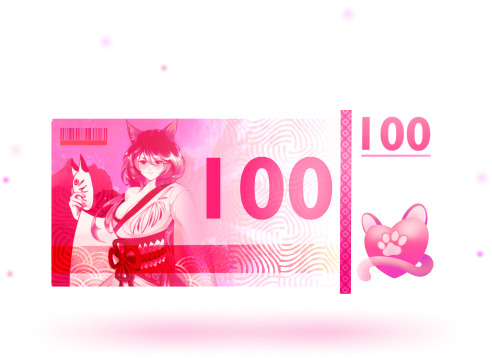
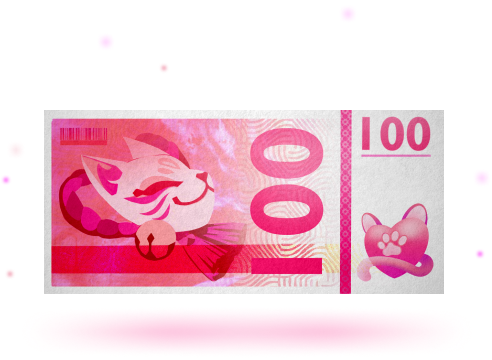
add new cash

diff --git a/components/landing/tokenised-economy/tokenised_economy.module.scss b/components/landing/tokenised-economy/tokenised_economy.module.scss
@@ -106,14 +106,14 @@
   }
 
   .arrow {
-    bottom: 172px;    
+    bottom: 172px;
 
     @media (max-width: 1200px) {
-      bottom: 164px; 
+      bottom: 164px;
     }
 
     @media (max-width: 768px) {
-      bottom: 98px; 
+      bottom: 98px;
     }
 
   }
@@ -209,14 +209,14 @@
   transform: translateX(-50%);
 
   @media (max-width: 1200px) {
-    bottom: 164px; 
+    bottom: 164px;
   }
-  
-  
+
+
   @media (max-width: 768px) {
     width: 28px;
     height: 28px;
-    bottom: 98px; 
+    bottom: 98px;
 
     img {
       width: 100%;
@@ -228,6 +228,7 @@
 
 .cash {
   margin-top: auto;
+  object-fit: contain;
 
   @media (max-width: 768px) {
     width: 150px;
